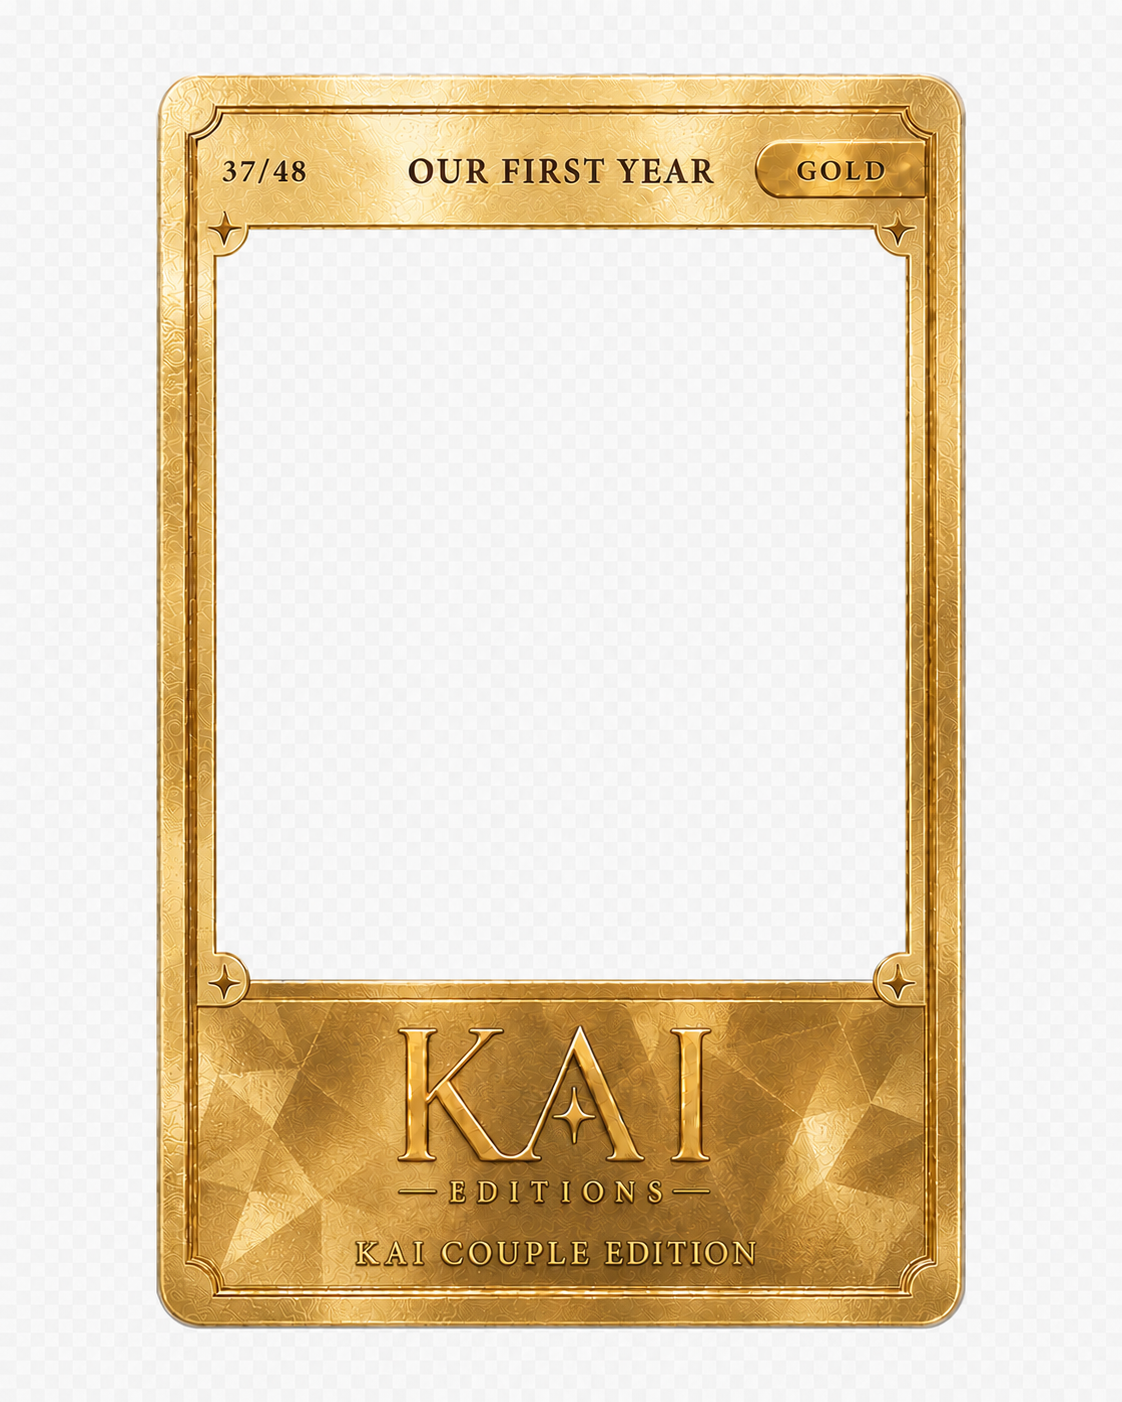
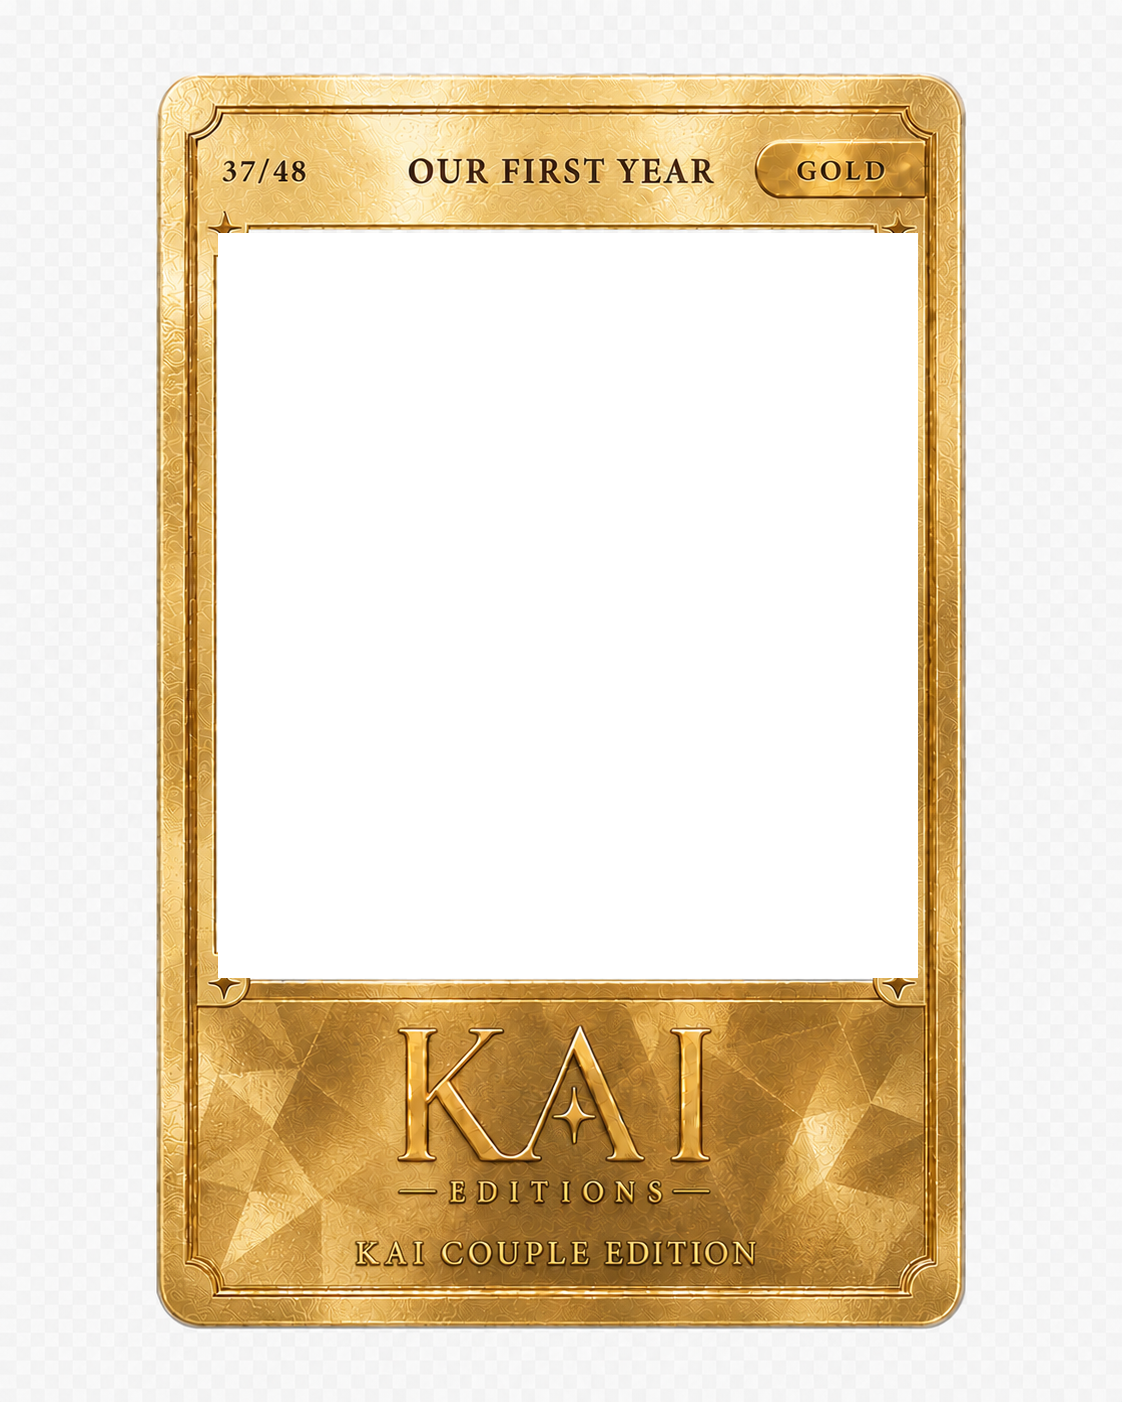
נרמול תבניות הקלפים ל-Preview
- 3 template-* עכשיו 1122x1402 עם אזור תמונה שקוף באותו מיקום בדיוק
- template-silver נבנתה מחדש מ-front-silver-example (המקורי היה יחס שונה)
- preview-geometry.json: מיקום חלון התמונה (px + fractions) לשימוש ה-Preview
- מקוריות נשמרו ב-couple/_original/

Changed region(s): [[0.7799, 0.1534, 0.8422, 0.7054], [0.1872, 0.6748, 0.2184, 0.7054], [0.1872, 0.1534, 0.2184, 0.184]]

diff --git a/assets/mockups/cards/README.md b/assets/mockups/cards/README.md
@@ -8,24 +8,26 @@
 |---|---|---|---|
 | `back-regular.png` | גב קלף — Regular (בורדו) | 1122×1402 | לבן אטום |
 | `back-silver.png` | גב קלף — Silver (כסף) | 1123×1401 | לבן אטום |
-| `back-gold.png` | גב קלף — Gold (זהב) | 1024×1536 | **שקוף** ✅ |
+| `back-gold.png` | גב קלף — Gold (זהב) | 1024×1536 | **שקוף** |
 | `front-regular-example.png` | קלף קדמי עם תמונת דוגמה + Badge REGULAR | 1122×1402 | לבן אטום |
 | `front-silver-example.png` | קלף קדמי עם דוגמה + Badge SILVER | 1122×1402 | לבן אטום |
 | `front-gold-example.png` | קלף קדמי עם דוגמה + Badge GOLD | 1121×1403 | לבן אטום |
-| `template-regular.png` | תבנית קדמית — אזור תמונה ריק | 1122×1402 | לבן (אזור התמונה לבן, לא שקוף) |
-| `template-silver.png` | תבנית קדמית — אזור תמונה ריק | 1024×1536 | **שקוף** ✅ (גם אזור התמונה) |
-| `template-gold.png` | תבנית קדמית — אזור תמונה ריק | 1122×1402 | לבן (אזור התמונה לבן, לא שקוף) |
+| `template-regular.png` | תבנית קדמית — אזור תמונה **שקוף** | 1122×1402 | ✅ מנורמל |
+| `template-silver.png` | תבנית קדמית — אזור תמונה **שקוף** | 1122×1402 | ✅ מנורמל (נבנתה מ-front-silver-example) |
+| `template-gold.png` | תבנית קדמית — אזור תמונה **שקוף** | 1122×1402 | ✅ מנורמל |
+| `preview-geometry.json` | מיקום חלון התמונה (px + fractions) | — | לשימוש ה-Preview |
+| `_original/` | 3 התבניות לפני הנרמול | — | גיבוי |
 
 **מבנה הקלף הקדמי:** שורה עליונה `xx/48` · כותרת · Badge טיפוס → תמונה במסגרת → פס תחתון: לוגו KAI + "KAI COUPLE EDITION".
 
-## ⚠ לא אחיד — צריך יישור לפני שימוש ב-Preview
+## נרמול שבוצע ✅
 
-1. **מידות שונות:** רוב הקבצים 1122×1402, אבל `back-gold` ו-`template-silver` הם 1024×1536. צריך יחס אחיד (מומלץ ~1122×1402 ≈ 4:5).
-2. **שקיפות לא עקבית:** רק `template-silver` ו-`back-gold` שקופים. כדי ש-`template-*` ישמשו ל-Preview (הצבת תמונת הלקוח מאחור) — צריך **אזור תמונה שקוף בכל השלושה**, ובאותו מיקום/גודל.
-3. **טקסט צרוב:** "OUR FIRST YEAR" ו-"23/48" צרובים בתבנית. ל-Preview דינמי — צריך שכבת טקסט נפרדת, או תבנית עם אזורי טקסט ריקים.
-4. **רק Couple** — חסר Family / Friendship / Kids (גב + תבנית לכל טיפוס).
+3 התבניות עכשיו **1122×1402, עם אזור תמונה שקוף באותו מיקום בדיוק**:
+חלון התמונה ≈ `x 0.194, y 0.166, w 0.624, h 0.531` (ראו `preview-geometry.json`).
+ל-Preview: מציבים את תמונת הלקוח **מאחורי** ה-PNG בחלון הזה (`object-fit: cover`).
 
-## מה צריך ל-Preview (מינימום)
-- תבנית קדמית אחת עם אזור תמונה שקוף + מיקום ידוע (להצבת תמונת הלקוח מאחור ב-CSS/canvas).
-- גב אחד להצגה.
-- אפשר לפתוח עם Couple בלבד ולהוסיף קווים בהמשך.
+## עדיין פתוח (לא חוסם MVP)
+
+1. **טקסט צרוב:** "OUR FIRST YEAR" ו-"23/48" צבועים בתבנית. ל-Preview דינמי מלא צריך שכבת טקסט נפרדת — לשלב ההמחשה אפשר לחיות עם זה.
+2. **רק Couple** — חסר Family / Friendship / Kids.
+3. **גב:** `back-regular/silver` לבן אטום, `back-gold` שקוף — לא קריטי.
